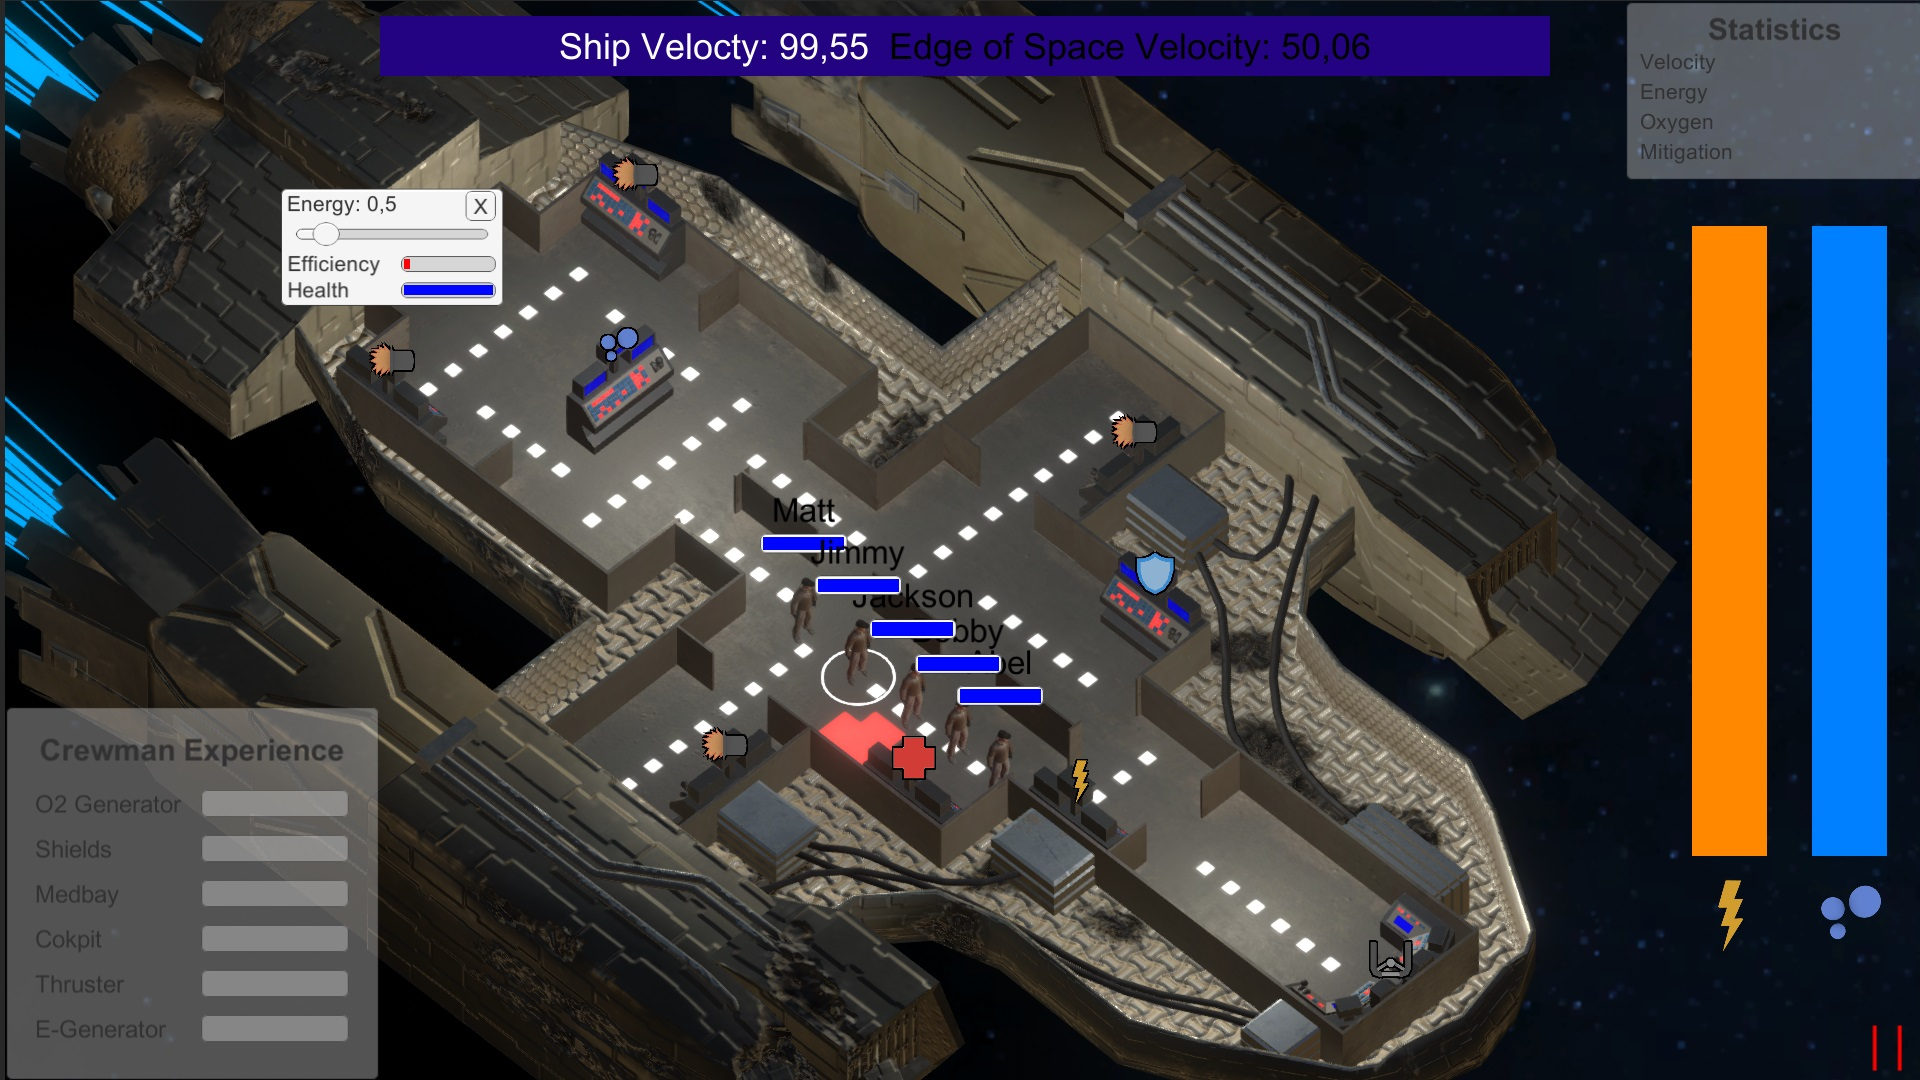
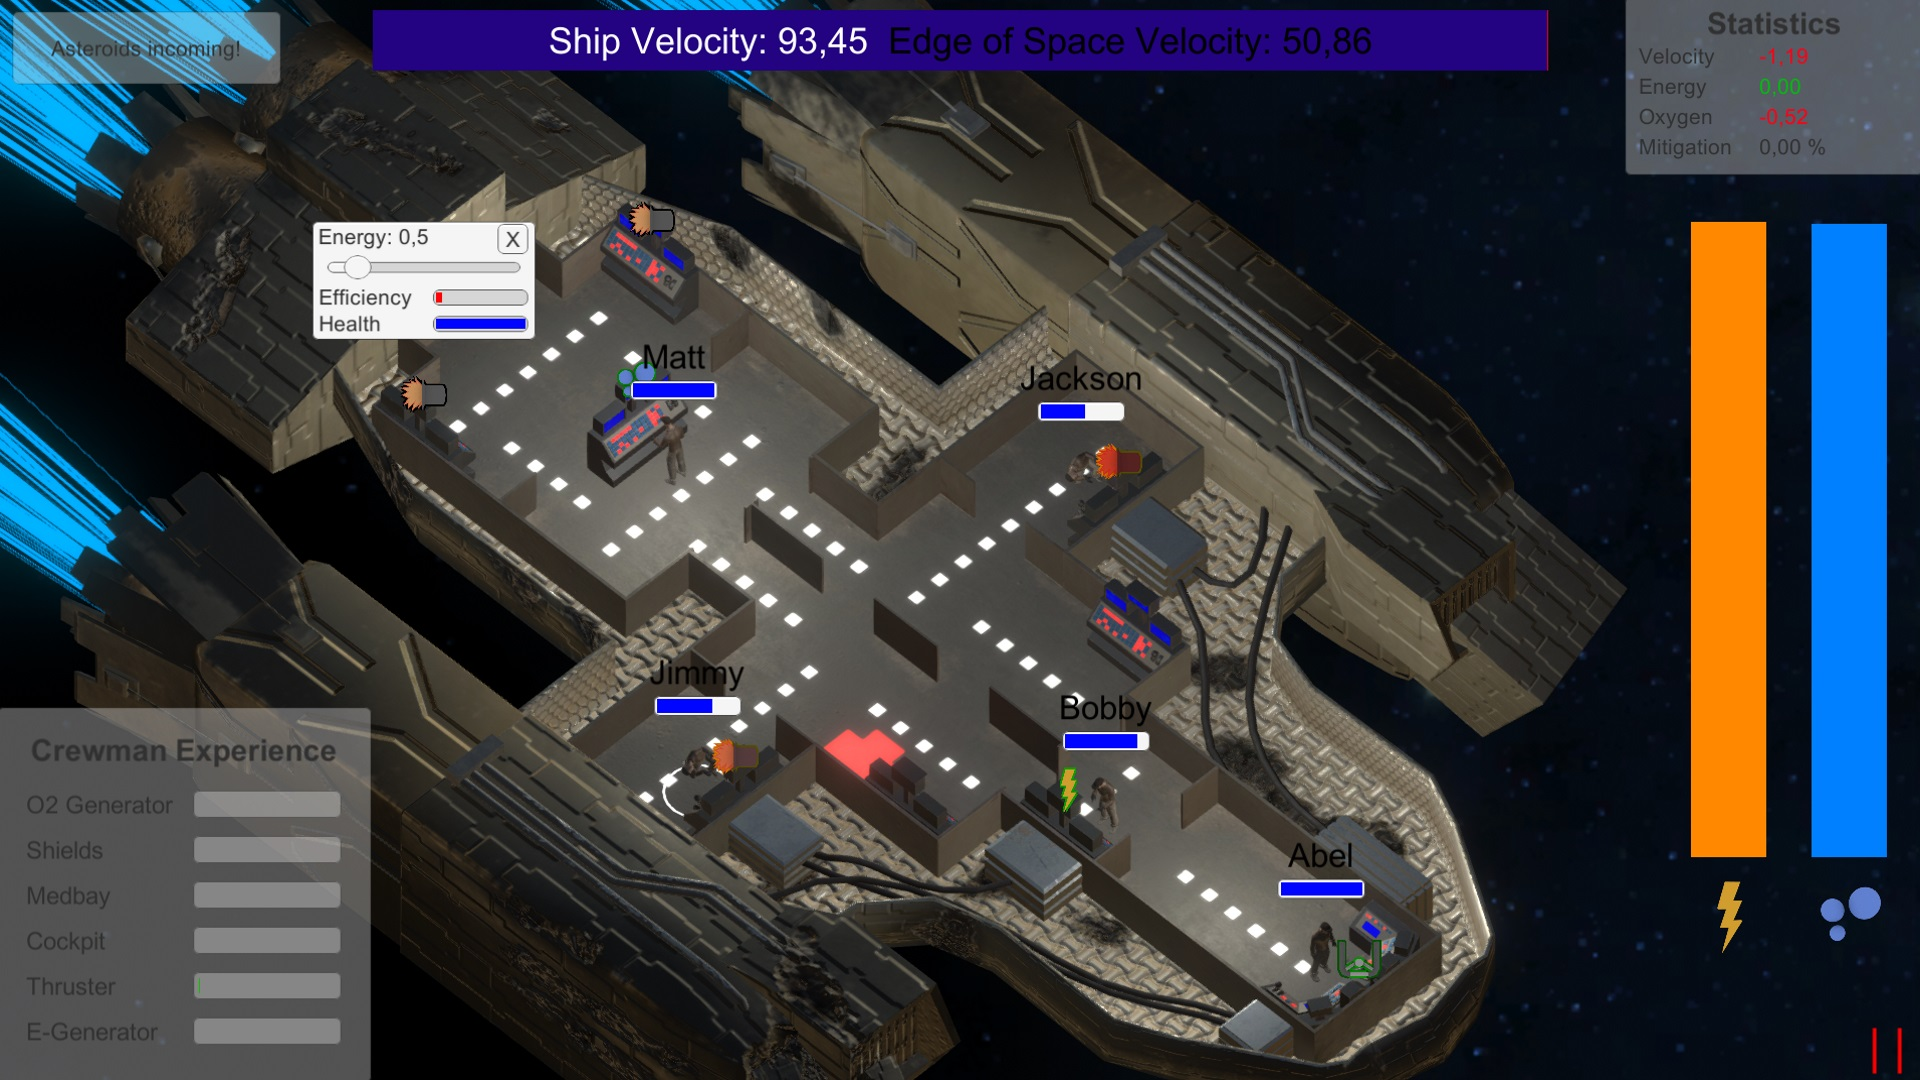
Screenshots

diff --git a/Assets/Game/Code/UI/UserInterface.cs b/Assets/Game/Code/UI/UserInterface.cs
@@ -47,7 +47,7 @@ public class UserInterface : SingletonBehaviour<UserInterface>
 
     public string shipVelocity
     {
-        get { return "Ship Velocty: " + Ship.instance.velocity.value.ToString("0.00") + "  <color=\"black\">Edge of Space Velocity: " + Game.instance.wallOfDeathVelocity.ToString("0.00") + "</color>"; }
+        get { return "Ship Velocity: " + Ship.instance.velocity.value.ToString("0.00") + "  <color=\"black\">Edge of Space Velocity: " + Game.instance.wallOfDeathVelocity.ToString("0.00") + "</color>"; }
     }
 
     public bool isPaused { get { return Game.instance.isPaused; } }
